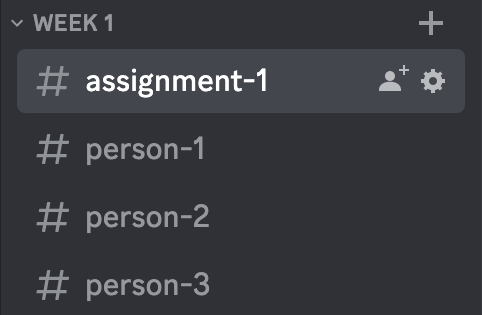
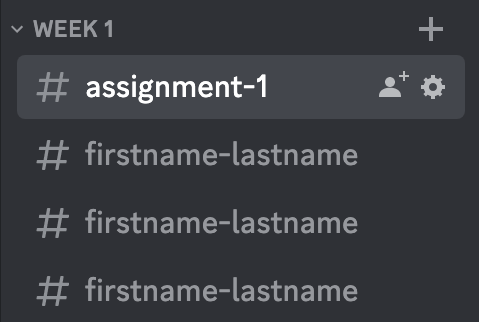
Added compile settings for formatting names differently

diff --git a/src/util.rs b/src/util.rs
@@ -1,5 +1,7 @@
+use std::fmt::Display;
 use serenity::client::Context;
 use serenity::model::channel::{GuildChannel, Message};
+use crate::util::ChannelParseMode::{FirstFullLastInitial, FullName};
 
 use crate::website_builder::{GalleryInfo, PhotoInfo, save_thumbnail};
 
@@ -45,17 +47,7 @@ pub async fn parse_gallery_info_from_channel(ctx: &Context, channel: &GuildChann
         return None;
     }
 
-    let author_name_channel = channel.name
-        .split('-')
-        .map(|s| {
-            let mut chars = s.chars();
-            let mut string = String::from(chars.next().unwrap().to_ascii_uppercase());
-            string += chars.as_str();
-
-            string
-        })
-        .collect::<Vec<String>>()
-        .join(" ");
+    let author_name_channel = parse_author_name_from_channel_name(&channel.name, FirstFullLastInitial);
 
     let title = format!("{author_name_channel} ({author_text})").into_boxed_str();
 
@@ -65,4 +57,39 @@ pub async fn parse_gallery_info_from_channel(ctx: &Context, channel: &GuildChann
             picture_infos,
         }
     )
+}
+
+pub enum ChannelParseMode {
+    FullName,
+    FirstFullLastInitial,
+}
+
+pub fn parse_author_name_from_channel_name(channel_name: &str, channel_parse_mode: ChannelParseMode) -> String {
+    match channel_parse_mode {
+        FullName => {
+            channel_name
+                .split('-')
+                .map(|s| {
+                    let mut chars = s.chars();
+                    let mut string = String::from(chars.next().unwrap().to_ascii_uppercase());
+                    string += &*chars.as_str().to_ascii_lowercase();
+
+                    string
+                })
+                .collect::<Vec<String>>()
+                .join(" ")
+        }
+        FirstFullLastInitial => {
+            let channel_name_parts = channel_name.split('-').collect::<Vec<&str>>();
+            return if channel_name_parts.len() >= 2 {
+                let mut first_name_chars = channel_name_parts[0].chars();
+                let first_initial = first_name_chars.next().unwrap().to_ascii_uppercase();
+                let rest_of_first_name = first_name_chars.as_str().to_ascii_lowercase();
+                let last_initial = channel_name_parts[1].chars().next().unwrap().to_ascii_uppercase();
+                format!("{}{} {}.", first_initial, rest_of_first_name, last_initial)
+            } else { // If there isn't 2 parts to the name just return the channel name, this means someone didn't name their channel right
+                channel_name.to_owned()
+            };
+        }
+    }
 }

diff --git a/src/website_builder.rs b/src/website_builder.rs
@@ -1,11 +1,13 @@
 use std::{fs, thread};
+use std::io::{BufReader, Cursor};
 use std::path::{Path, PathBuf};
 use std::sync::{Arc, Mutex};
+use bytes::Buf;
 use chrono::{DateTime, Local};
 
 use futures::future::join_all;
 use handlebars::Handlebars;
-use image::ImageFormat;
+use image::{EncodableLayout, ImageFormat};
 use image::imageops::FilterType;
 use once_cell::sync::Lazy;
 use serde::Serialize;
@@ -84,8 +86,9 @@ impl ThumbnailDownloadManager {
                     download_runtime.spawn(async move {
                         let thumbnail_image = {
                             let response = reqwest::get(url.clone()).await.unwrap();
-                            let bytes = response.bytes().await.unwrap();
-                            let image = image::load_from_memory(&bytes).unwrap();
+                            let image_bytes = response.bytes().await.unwrap();
+                            let image = image::load_from_memory(&image_bytes).unwrap();
+
                             // image.thumbnail(200, 200)
                             image.resize(250, 250, FilterType::Triangle)
                         };

diff --git a/src/main.rs b/src/main.rs
@@ -1,3 +1,5 @@
+extern crate core;
+
 use std::env;
 use std::fmt::Display;
 use std::io::Stdout;
@@ -83,8 +85,7 @@ impl BotEventHandler {
                 user_built_by: msg.author.tag().into_boxed_str(),
                 built_time: Local::now().to_string().into_boxed_str(),
             };
-            // let page_build_info = format!("Page build from channel `{}` by `{}` on {}", message_channel.name, msg.author.tag(), Local::now()).into_boxed_str();
-
+            
             let page_info = PageInfo {
                 page_title,
                 page_build_info,

diff --git a/README.md b/README.md
@@ -32,7 +32,8 @@ Discord bot and get its API token.
 
 In order for this bot to correctly build websites, it need the server to be set up similar to my photography class.
 
-Note that the names do not matter, and the command can be run from any of `assignment-1, person-1, person-2, or person-3` but I recommend running it from the main assignment channel.
+Note that the names do not matter, and the command can be run from `assignment-1` or any of the photographers channels, but I recommend running it from the main assignment channel. 
+Gallery names are parsed from the channel names, so `firstname-lastname` will parse into `Firstname Lastname`
 
 ![Example Discord Setup](example_setup.png)
 
